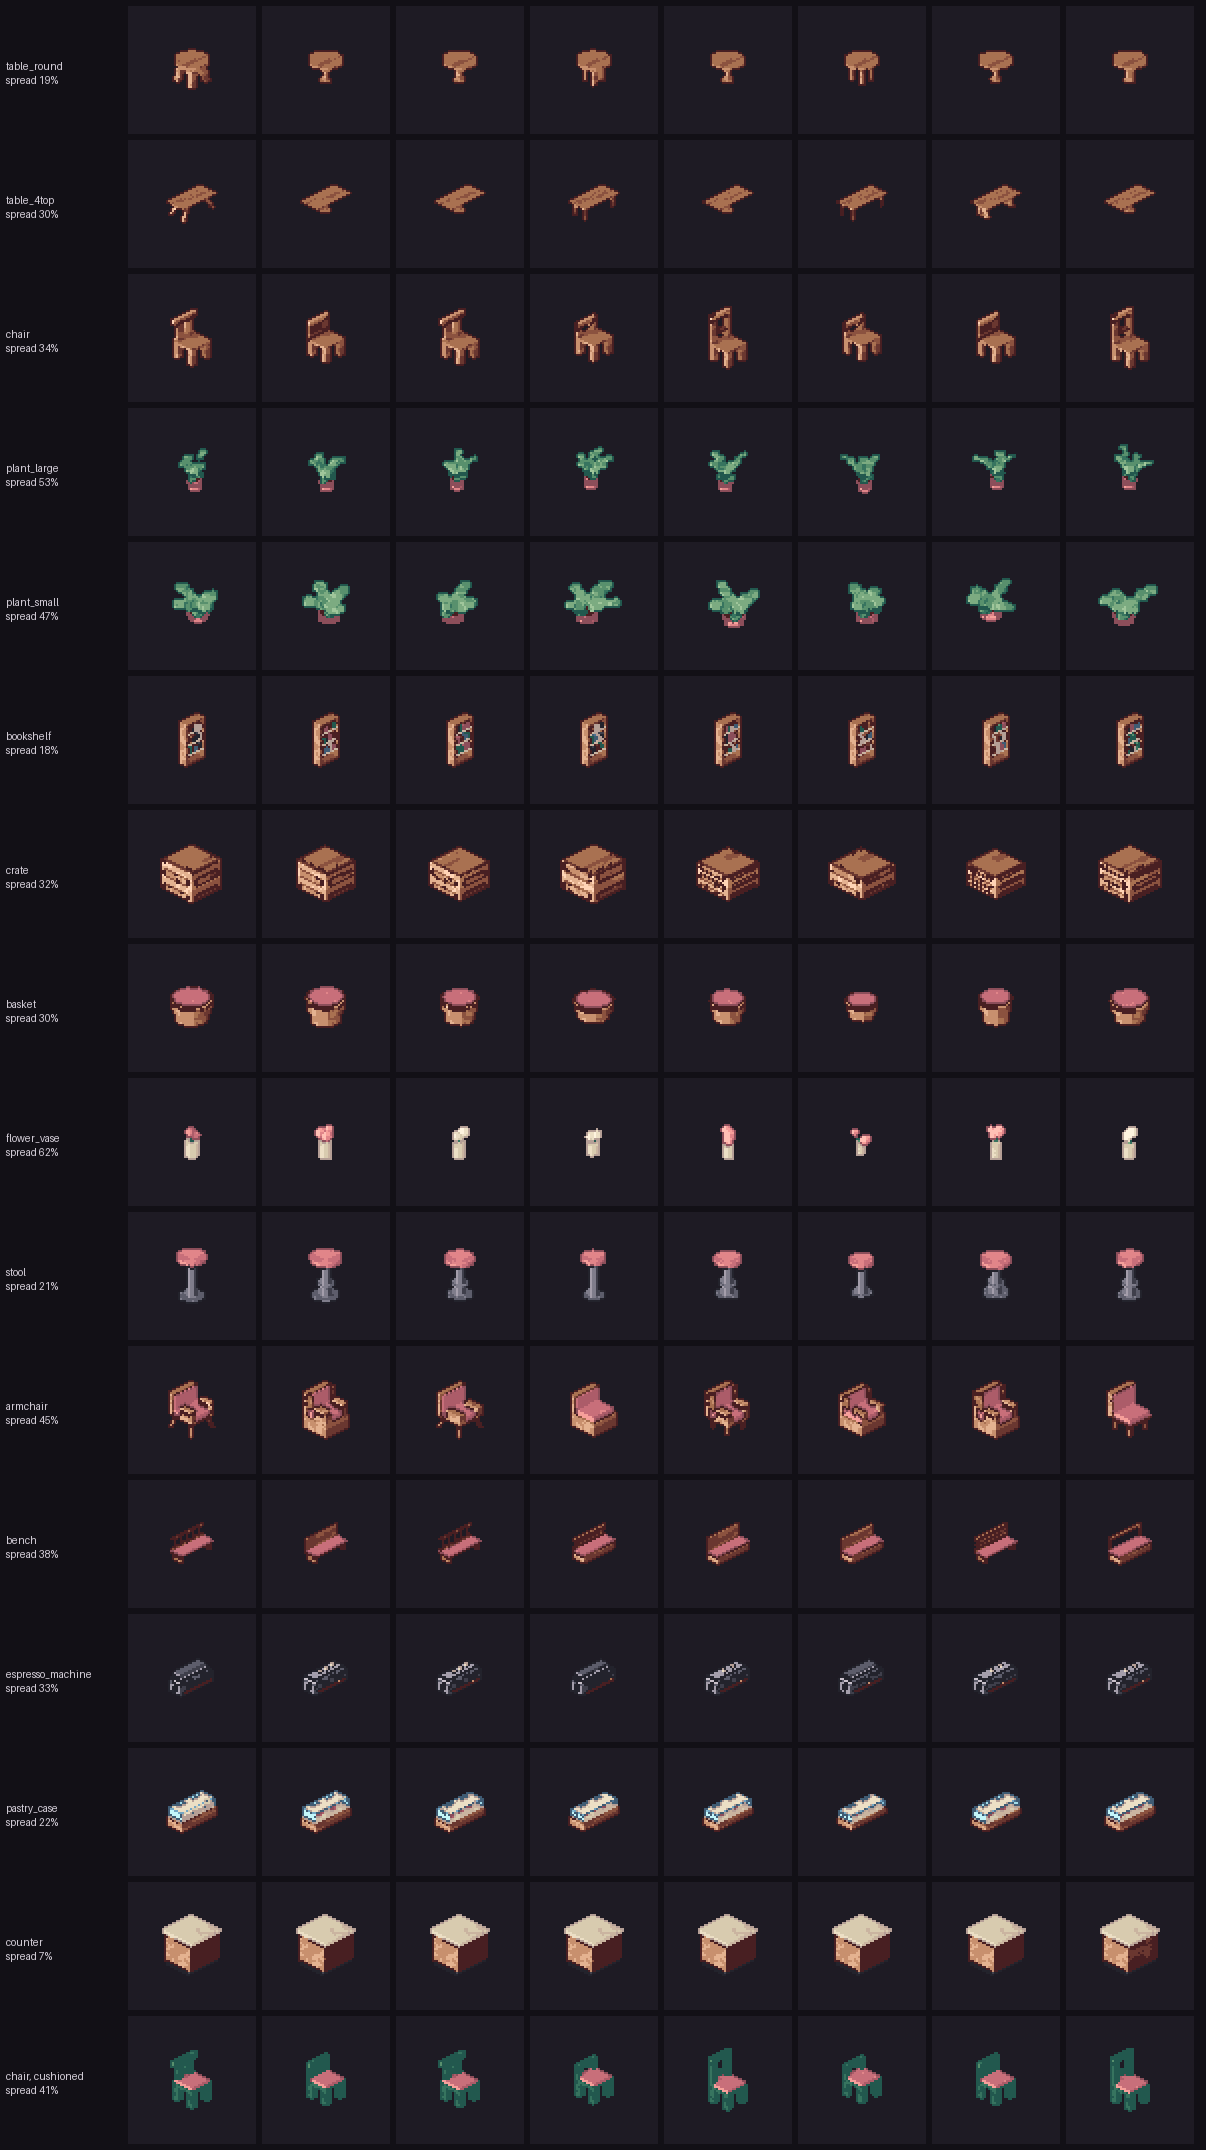
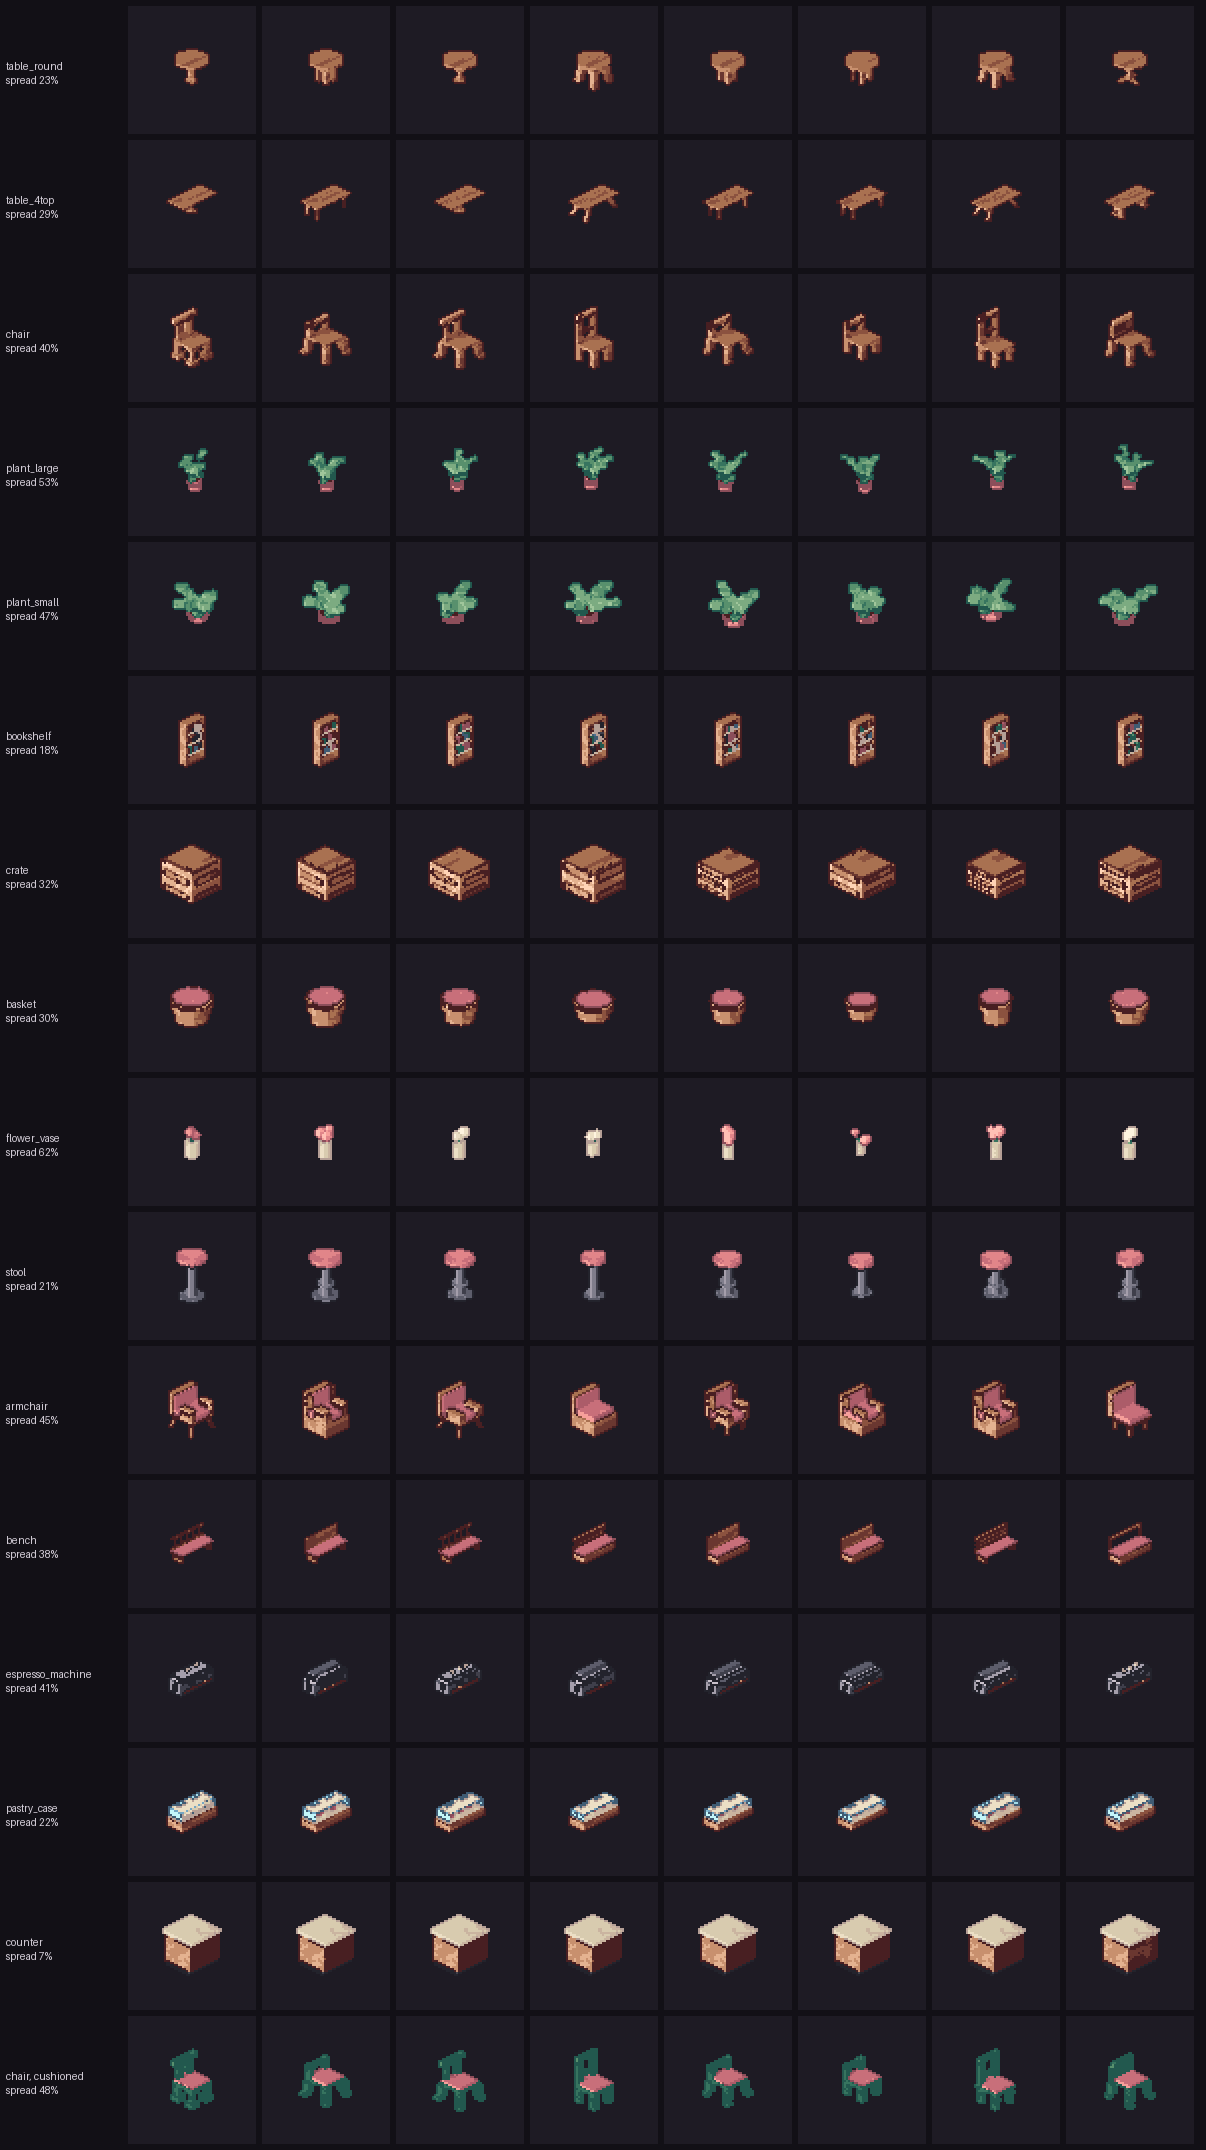
The mean said the generators moved; the closest pair said they repeated
`check_cast_silhouette` has graded people on their most similar two from
the start -- a cast is only as varied as its closest pair. The
generators were still graded on an average, and the average hid exactly
what it exists to catch:

  espresso_machine   mean 33%   closest 0.0%   pixel-identical
  table_4top         mean 30%   closest 0.3%
  table_round        mean 19%   closest 1.7%
  chair              mean 34%   closest 3.0%

Those are the instances a player compares: four chairs round one table
come from four consecutive seeds.

Same cause every time -- one discrete axis plus jitter below the raster.
The chair varied on four back styles and a leg radius of 0.010, a third
of a pixel at room scale, so any two seeds drawing the same back were
the same chair. Variation that exists in the mesh and dies in the raster
is not variation.

  chair            leg style and seat height 0.415-0.49    3.0% -> 11.1%
  table            height, the lever it was not pulling    0.3% -> 5.2%
  espresso_machine shell height, optional second wand      0.0% -> 9.0%
  table_round      tripod base instead of a second pedestal 2.9% -> 5.7%

Round tops had been sending the trestle style to the pedestal, so a disc
had three bases with one drawn twice. Collapsing a style onto another
style is how a generator loses range without losing a branch: the code
still has four cases and the output has three.

CLOSEST_PAIR_FLOOR 0.045, bracketed by the 0.000/0.003/0.029 of the
[…]

diff --git a/tools/assetlib.py b/tools/assetlib.py
@@ -419,10 +419,19 @@ def espresso_machine(seed: int | None = None) -> Mesh:
         return st / 0x7FFFFFFF
 
     m = Mesh()
-    m.add_box((0.10, 0.15, 0.0), (1.90, 0.85, 0.46), METAL)
-    m.add_box((0.10, 0.15, 0.40), (1.90, 0.85, 0.46), "neutral-2")   # shadow line
-    m.add_box((0.20, 0.20, 0.46), (1.80, 0.80, 0.60), "neutral+1")   # lit top shell
-    m.add_box((0.24, 0.20, 0.60), (1.76, 0.76, 0.635), "neutral+2")  # cup warmer
+    # Shell height, because the width is fixed and the height is therefore the
+    # only dimension left that reaches the outline. Two of eight seeds rendered
+    # PIXEL-IDENTICAL machines while the generator's mean spread read 33%: the
+    # group count and cup count are all interior, and a machine with no back
+    # panel had nothing else to distinguish it.
+    lift = 0.0 if seed is None else (rnd() - 0.5) * 0.13
+    m.add_box((0.10, 0.15, 0.0), (1.90, 0.85, 0.46 + lift), METAL)
+    m.add_box((0.10, 0.15, 0.40 + lift), (1.90, 0.85, 0.46 + lift),
+              "neutral-2")                                           # shadow line
+    m.add_box((0.20, 0.20, 0.46 + lift), (1.80, 0.80, 0.60 + lift),
+              "neutral+1")                                           # lit top shell
+    m.add_box((0.24, 0.20, 0.60 + lift), (1.76, 0.76, 0.635 + lift),
+              "neutral+2")                                           # cup warmer
     if seed is None:
         cups, groups = (0.50, 0.90, 1.30), (0.55, 1.30)
     else:
@@ -439,16 +448,22 @@ def espresso_machine(seed: int | None = None) -> Mesh:
         if rnd() < 0.45:
             # A raised back panel. The one part of the outline that is free to
             # grow, since it sits against the wall behind the counter.
-            m.add_box((0.30, 0.22, 0.635), (1.70, 0.62, 0.635 + 0.10 + rnd() * 0.10),
+            m.add_box((0.30, 0.22, 0.635 + lift),
+                      (1.70, 0.62, 0.635 + lift + 0.10 + rnd() * 0.10),
                       "neutral")
     for cx in cups:
-        m.add_cylinder((cx, 0.46, 0.635), 0.075, 0.09, CERAMIC, 8)
+        m.add_cylinder((cx, 0.46, 0.635 + lift), 0.075, 0.09, CERAMIC, 8)
     m.add_box((0.30, 0.85, 0.10), (1.70, 0.91, 0.16), "wood-1")      # drip tray
     for gx in groups:
         m.add_cylinder((gx, 0.88, 0.30), 0.09, 0.16, "neutral-3", 10)
         m.add_box((gx - 0.045, 0.86, 0.255), (gx + 0.045, 1.02, 0.29), WOOD)
-    m.add_box((0.42, 0.855, 0.50), (0.68, 0.88, 0.56), "neutral-3")  # gauge
-    m.add_cylinder((1.93, 0.60, 0.20), 0.05, 0.30, "neutral-1", 8)   # steam wand
+    m.add_box((0.42, 0.855, 0.50 + lift), (0.68, 0.88, 0.56 + lift),
+              "neutral-3")                                           # gauge
+    m.add_cylinder((1.93, 0.60, 0.20), 0.05, 0.30 + lift, "neutral-1", 8)  # wand
+    if seed is not None and rnd() < 0.5:
+        # Two wands, one each side. Both stand outside the body, so this is one
+        # of the few parts of this machine that is outline rather than infill.
+        m.add_cylinder((0.07, 0.60, 0.20), 0.05, 0.30 + lift, "neutral-1", 8)
     return m
 
 
@@ -599,6 +614,33 @@ def _base_pedestal(m, f, x0, x1, y0, y1, h, r):
     m.add_cylinder((mx, my, 0.0), min(x1 - x0, y1 - y0) * 0.30, 0.055, f, 14)
 
 
+def _base_tripod(m, f, x0, x1, y0, y1, h, r):
+    """Three raked legs to a small hub. The other round-table base.
+
+    Round tops used to send the trestle style to the pedestal, which meant a
+    disc had three bases with one of them drawn twice, and `table_round`'s
+    closest pair over eight seeds measured 2.9%. Collapsing a style onto
+    another style is how a generator loses range without losing a branch --
+    the code still has four cases and the output has three.
+    """
+    import math as _m
+    mx, my = (x0 + x1) / 2, (y0 + y1) / 2
+    reach = min(x1 - x0, y1 - y0) * 0.44
+    m.add_cylinder((mx, my, h - 0.10), r * 1.3, 0.10, f, 10)
+    for i in range(3):
+        a = _m.radians(90 + i * 120)
+        fx, fy = mx + reach * _m.cos(a), my + reach * _m.sin(a)
+        # Two segments, because a rake drawn as one box is a vertical box.
+        m.add_box((min(fx, mx) - r, min(fy, my) - r, 0.0),
+                  (min(fx, mx) + r * 0.2 + abs(fx - mx) * 0.5,
+                   min(fy, my) + r * 0.2 + abs(fy - my) * 0.5, r * 1.2), f)
+        m.add_box((mx - r * 0.9, my - r * 0.9, r * 0.9),
+                  (mx + r * 0.9, my + r * 0.9, h - 0.09), f)
+        m.add_box((min(fx, mx + r) - r * 0.8, min(fy, my + r) - r * 0.8, 0.0),
+                  (max(fx, mx - r) + r * 0.8, max(fy, my - r) + r * 0.8,
+                   r * 0.95), f)
+
+
 def _base_trestle(m, f, x0, x1, y0, y1, h, r):
     """Two end frames joined by a spine. The long communal table."""
     r *= 1.25
@@ -650,6 +692,16 @@ def table(w: float = 1.0, d: float = 1.0, h: float = 0.58, top=WOOD,
         return st / 0x7FFFFFFF
 
     m = Mesh()
+    # Height, which is the biggest silhouette lever a table has and was the one
+    # it did not pull. Thickness varies by 0.045 and overhang by 0.05 -- one and
+    # two pixels at room scale -- so two seeds that drew the same base style
+    # were the same table: `table_4top`'s closest pair over eight seeds measured
+    # 0.3% disagreement while its mean read 30%. `m.top_z` already reports the
+    # surface, and everything that puts a cup or a vase on a table reads it, so
+    # a taller table is a taller table all the way through rather than a change
+    # that has to be matched somewhere else.
+    if seed is not None:
+        h = h * (0.93 + rnd() * 0.14)
     thick = 0.085 + rnd() * 0.045
     over = 0.03 + rnd() * 0.05                 # how far the top oversails the base
     if round_top is None:
@@ -660,8 +712,11 @@ def table(w: float = 1.0, d: float = 1.0, h: float = 0.58, top=WOOD,
              _base_posts if seed is None else
              BASE_STYLES[int(rnd() * len(BASE_STYLES)) % len(BASE_STYLES)])
     if round_top and style is _base_trestle:
-        # A trestle under a disc is a chair with two left legs.
-        style = _base_pedestal
+        # A trestle under a disc is a chair with two left legs -- so it becomes
+        # a tripod, not a second pedestal. Sending it to the pedestal left a
+        # disc with three bases one of which was drawn twice, and the closest
+        # pair of eight round tables measured 2.9%.
+        style = _base_tripod
     # 0.085 read as tree trunks under a disc; 0.052 read as wire. Each base
     # style scales this itself, because a lone raked leg carries more load --
     # and looks like it should -- than one of four posts.
@@ -746,6 +801,40 @@ def _back_solid(m, f, sz, x0, x1, y0, y1):
 BACK_STYLES = (_back_low, _back_tall, _back_shoulder, _back_solid)
 
 
+def _legs_square(m, f, cx, cy, r, top):
+    m.add_box((cx - r, cy - r, 0), (cx + r, cy + r, top), f)
+
+
+def _legs_tapered(m, f, cx, cy, r, top):
+    # Wider at the floor, narrower under the seat. Two boxes, because a taper
+    # rendered as one is a taper nobody sees at 27 px per tile.
+    m.add_box((cx - r * 1.35, cy - r * 1.35, 0),
+              (cx + r * 1.35, cy + r * 1.35, top * 0.34), f)
+    m.add_box((cx - r * 0.80, cy - r * 0.80, top * 0.34),
+              (cx + r * 0.80, cy + r * 0.80, top), f)
+
+
+def _legs_splayed(m, f, cx, cy, r, top):
+    # Foot pushed outward from the seat's centre, which is the one leg style
+    # that changes the chair's FOOTPRINT and so its silhouette from every
+    # azimuth rather than only from the side.
+    ox = 0.10 if cx > 0.5 else -0.10
+    oy = 0.10 if cy > 0.5 else -0.10
+    m.add_box((cx - r + ox, cy - r + oy, 0), (cx + r + ox, cy + r + oy,
+                                              top * 0.30), f)
+    m.add_box((cx - r + ox * 0.5, cy - r + oy * 0.5, top * 0.30),
+              (cx + r + ox * 0.5, cy + r + oy * 0.5, top), f)
+
+
+def _legs_turned(m, f, cx, cy, r, top):
+    m.add_cylinder((cx, cy, 0), r * 1.15, top * 0.62, f, 8)
+    m.add_cylinder((cx, cy, top * 0.62), r * 1.45, top * 0.10, f, 8)
+    m.add_cylinder((cx, cy, top * 0.72), r * 0.95, top * 0.28, f, 8)
+
+
+LEG_STYLES = (_legs_square, _legs_tapered, _legs_splayed, _legs_turned)
+
+
 def chair(cushion=None, frame=WOOD, seed: int | None = None) -> Mesh:
     """Back at -y, so a chair at rot=0 has its back away from a table to its +y.
 
@@ -783,11 +872,23 @@ def chair(cushion=None, frame=WOOD, seed: int | None = None) -> Mesh:
         return st / 0x7FFFFFFF
 
     m = Mesh()
-    seat_z = 0.45                      # ~28% of character height; was 0.52
+    # Three independent axes, not one. With only the back style, any two of
+    # eight seeds that drew the same style were the same chair to the pixel --
+    # measured at 3.0% disagreement for the closest pair while the generator's
+    # MEAN spread read a healthy 34%. The leg radius was varying by 0.01, which
+    # is a third of a pixel at room scale: variation that exists in the mesh
+    # and dies in the raster is not variation.
+    #
+    # Seat height is the most valuable of the three because it moves the back,
+    # the legs and the cushion together, and because `chair` already publishes
+    # `seat_z` and the seated rig already takes it -- so a shorter chair seats
+    # a person correctly rather than needing a matching change anywhere else.
+    seat_z = 0.45 if seed is None else 0.415 + rnd() * 0.075
     leg_r = 0.090 + ((rnd() - 0.5) * 0.020 if seed is not None else 0.0)
+    legs = (_legs_square if seed is None
+            else LEG_STYLES[int(rnd() * len(LEG_STYLES)) % len(LEG_STYLES)])
     for cx, cy in ((0.28, 0.28), (0.72, 0.28), (0.28, 0.72), (0.72, 0.72)):
-        m.add_box((cx - leg_r, cy - leg_r, 0),
-                  (cx + leg_r, cy + leg_r, seat_z - 0.07), frame)
+        legs(m, frame, cx, cy, leg_r, seat_z - 0.07)
     m.add_box((0.18, 0.18, seat_z - 0.07), (0.82, 0.82, seat_z), frame)     # seat
     style = (_back_low if seed is None
              else BACK_STYLES[int(rnd() * len(BACK_STYLES)) % len(BACK_STYLES)])

diff --git a/tools/art_review.py b/tools/art_review.py
@@ -374,6 +374,26 @@ def check_member_thickness(mesh, name="asset", ppu=ROOM_PX_PER_UNIT,
 # how a ratchet turns back into decoration.
 DEFAULT_SPREAD_FLOOR = 0.12
 
+# How different the two most similar instances of one generator must be.
+# Bracketed by measurement, as the cast floor is: the defects it was calibrated
+# against were 0.000 (espresso_machine), 0.003 (table_4top) and 0.029
+# (table_round), and the weakest generator once those were fixed is 5.2%.
+# Generators with their own `own` floor are exempt -- the counter's modules are
+# meant to tile flush and two identical ones are the point.
+CLOSEST_PAIR_FLOOR = 0.045
+
+
+def _pair_disagreement(a, b) -> float:
+    """Share of covered pixels where two frames resolve to different materials."""
+    union = differ = 0
+    for x, y in zip(a, b):
+        if x is None and y is None:
+            continue
+        union += 1
+        if x != y:
+            differ += 1
+    return differ / (union or 1)
+
 GENERATORS = (
     ("table_round", lambda A, s: A.table_round(seed=s), 1.7, None, ""),
     ("table_4top", lambda A, s: A.table_4top(seed=s), 2.6, None, ""),
@@ -471,7 +491,8 @@ def _screen_spread(frames: list) -> float:
 
 
 def check_generator_range(seeds: int = 8, azimuth: float = 45.0,
-                          floor: float = DEFAULT_SPREAD_FLOOR) -> list[str]:
+                          floor: float = DEFAULT_SPREAD_FLOOR,
+                          pair_floor: float = CLOSEST_PAIR_FLOOR) -> list[str]:
     """Do the seeded generators actually generate different shapes?
 
     A generator can rot in a way nothing else here notices. Add a base style
@@ -496,12 +517,30 @@ def check_generator_range(seeds: int = 8, azimuth: float = 45.0,
     out = []
     for name, factory, span, own, why in GENERATORS:
         bar = floor if own is None else own
-        spread = _screen_spread([screen_materials(factory(A, s + 1), azimuth,
-                                                  span) for s in range(seeds)])
+        frames = [screen_materials(factory(A, s + 1), azimuth, span)
+                  for s in range(seeds)]
+        spread = _screen_spread(frames)
         if spread < bar:
             out.append(f"{name}: screen spread {spread:.0%} over {seeds} seeds "
                        f"(floor {bar:.0%}{'; ' + why if why else ''}) -- the "
                        f"seed is barely changing the shape")
+        # And the CLOSEST pair, which is the question the mean cannot answer.
+        # `check_cast_silhouette` has graded people this way from the start --
+        # a cast is only as varied as its most similar two -- and the
+        # generators were still being graded on an average. The average hid
+        # exactly what it exists to catch: `espresso_machine` averaged 33%
+        # spread while two of its eight seeds rendered PIXEL-IDENTICAL, and
+        # `table_4top` averaged 30% with a closest pair of 0.3%. Those are the
+        # instances a player actually compares, because four chairs round one
+        # table come from four consecutive seeds.
+        if pair_floor > 0.0 and own is None:
+            lo = min(_pair_disagreement(frames[i], frames[j])
+                     for i in range(len(frames))
+                     for j in range(i + 1, len(frames)))
+            if lo < pair_floor:
+                out.append(f"{name}: closest pair of {seeds} seeds differs by "
+                           f"only {lo:.1%} (floor {pair_floor:.0%}) -- the "
+                           f"generator moves on average and repeats itself")
     return out
 
 

diff --git a/ART_CRITIQUE.md b/ART_CRITIQUE.md
@@ -1852,3 +1852,55 @@ Three readers reconstructing one decision from its consequences will get three
 answers, and the wrong one is indistinguishable from a real bug.
 
 Over 60 seeds: **30 wall runs, 16 peninsulas, 14 L runs**, 0 errors, 7 ms each.
+
+## The mean said the generators moved; the closest pair said they repeated
+
+`check_cast_silhouette` has graded people on their most similar two from the
+start — a cast is only as varied as its closest pair. The generators were still
+being graded on an *average*, and the average hid exactly what it exists to
+catch:
+
+| generator | mean spread | closest pair |
+|---|---|---|
+| espresso_machine | 33% | **0.0%** — pixel-identical |
+| table_4top | 30% | **0.3%** |
+| table_round | 19% | 1.7% |
+| chair | 34% | 3.0% |
+
+Those are the instances a player actually compares: four chairs round one table
+come from four consecutive seeds.
+
+The cause was the same in every case — **one discrete axis, plus jitter below
+the raster**. The chair varied on four back styles and a leg radius of ±0.010,
+which is a third of a pixel at room scale; any two seeds drawing the same back
+were the same chair. *Variation that exists in the mesh and dies in the raster
+is not variation.*
+
+What each one got is an axis that reaches the outline:
+
+- **chair** — a leg style (square, tapered, splayed, turned) and a seat height
+  of 0.415–0.49. Height is the best of the three because it moves the back, the
+  legs and the cushion together, and `chair` already publishes `seat_z` and the
+  seated rig already reads it, so a shorter chair seats a person correctly with
+  no matching change anywhere. **3.0% → 11.1%**
+- **table** — height, the biggest lever a table has and the one it was not
+  pulling; thickness and overhang were varying by one and two pixels.
+  `top_z` already propagates it. **0.3% → 5.2%**
+- **espresso_machine** — shell height and an optional second steam wand. Its
+  width is deliberately fixed (it is a built-in), so height was the only
+  dimension left that reaches the outline, and the group and cup counts are all
+  interior. **0.0% → 9.0%**
+- **table_round** — round tops were sending the trestle style to the pedestal,
+  so a disc had three bases with one drawn twice. It gets a tripod instead.
+  *Collapsing a style onto another style is how a generator loses range without
+  losing a branch: the code still has four cases and the output has three.*
+  **2.9% → 5.7%**
+
+`CLOSEST_PAIR_FLOOR = 0.045`, bracketed by the 0.000/0.003/0.029 of the defects
+and the 5.2% of the weakest generator after the fix, and verified to fire on all
+four against the pre-fix library — where the mean-spread floor caught none of
+them. Generators with their own floor are exempt: the counter's modules are
+meant to tile flush and two identical ones are the point.
+
+Every unseeded mesh is byte-identical to before, so existing sprite sheets are
+untouched.
